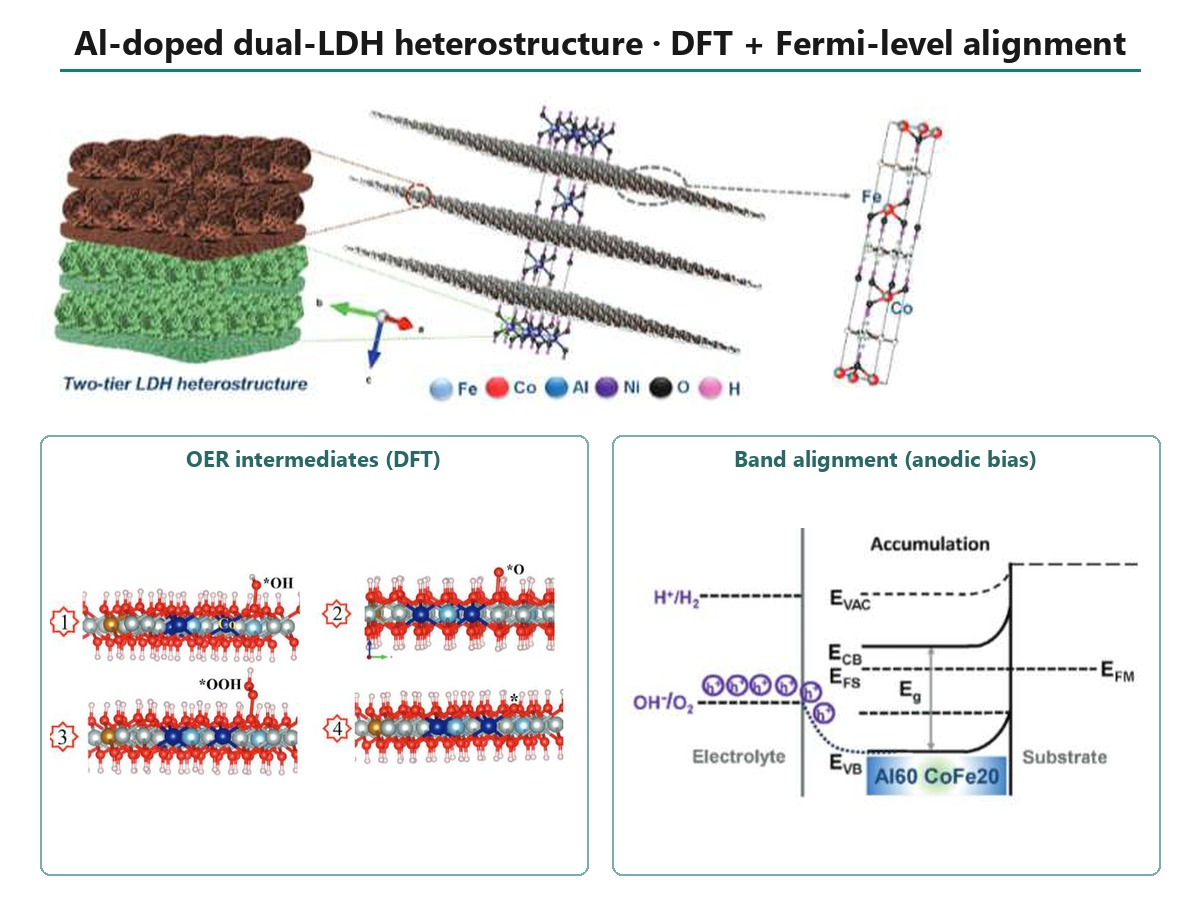
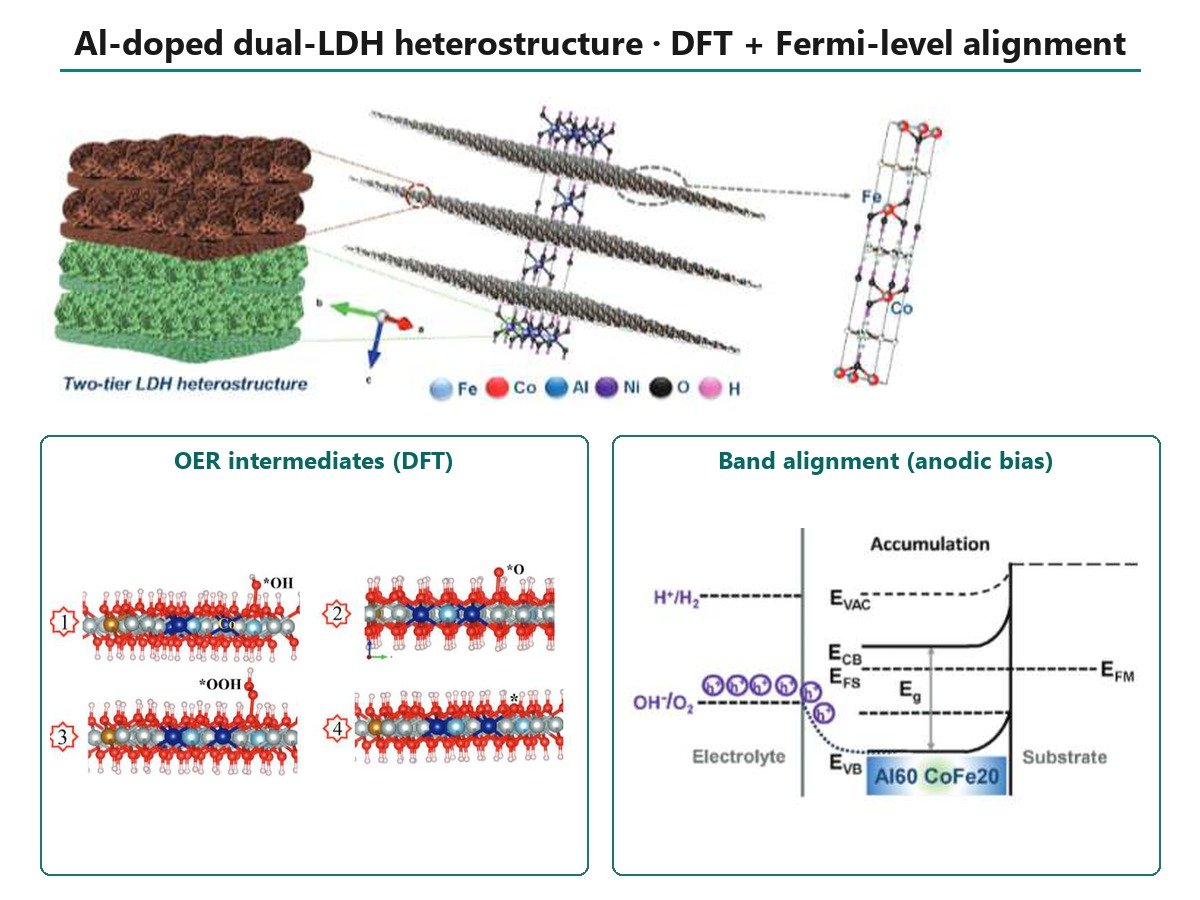
Rework thumbnails 33, 47, 49, 52; unify composite panel colors
Claude-Session: https://claude.ai/code/session_01C8otz9xRUX7zpZLP7SNUXe

Changed region(s): [[0.5858, 0.4978, 0.8942, 0.5289], [0.1233, 0.4978, 0.37, 0.5289]]

diff --git a/index.html b/index.html
@@ -407,6 +407,6 @@
 <script id="imgdata" type="application/json">{"logo": "assets/img/logo.png", "concept": "assets/img/concept.jpg", "scope": "assets/img/scope.jpg?v=20261005", "pillars": "assets/img/pillars.jpg", "qr": "assets/img/qr.jpg", "pi": "assets/img/pi.jpg?v=20261010", "m_bincy": "assets/img/m_bincy.jpg", "m_ganji": "assets/img/m_ganji.jpg", "m_prabha": "assets/img/m_prabha.jpg", "m_ksw": "assets/img/m_ksw.jpg", "m_kjb": "assets/img/m_kjb.jpg", "m_khn": "assets/img/m_khn.jpg", "m_cde": "assets/img/m_cde.jpg", "m_smt": "assets/img/m_smt.jpg", "m_shj": "assets/img/m_shj.jpg", "m_ldg": "assets/img/m_ldg.jpg", "m_lsh": "assets/img/m_lsh.jpg", "m_jsw": "assets/img/m_jsw.jpg", "sw_ansys": "assets/img/sw_ansys.png", "sw_fluent": "assets/img/sw_fluent.png", "sw_comsol": "assets/img/sw_comsol.png", "sw_digimat": "assets/img/sw_digimat.png", "sw_geodict": "assets/img/sw_geodict.png", "sw_hepigans": "assets/img/sw_hepigans.png", "sw_msstudio": "assets/img/sw_msstudio.png", "sw_piano": "assets/img/sw_piano.png", "sw_vasp": "assets/img/sw_vasp.png", "n_grad": "assets/img/n_grad.jpg", "n_cover": "assets/img/n_cover.jpg", "n_plat": "assets/img/n_plat.jpg?v=20260905", "n_award": "assets/img/n_award.jpg", "n_geo": "assets/img/n_geo.jpg", "n_qd": "assets/img/n_qd.jpg", "n_marine": "assets/img/n_marine.jpg", "n_hydro": "assets/img/pub/20.jpg", "n_amds": "assets/img/n_amds.jpg", "n_etamds": "assets/img/n_etamds.jpg", "n_mico": "assets/img/n_mico.jpg", "n_halide": "assets/img/n_halide.jpg?v=20260905", "n_tribo": "assets/img/pub/13.jpg", "m_kgw": "assets/img/m_kgw.jpg", "m_gf": "assets/img/m_gf.jpg", "m_uk": "assets/img/m_uk.jpg"}</script>
 <script id="galdata" type="application/json">[{"id": "e2609b", "date": "2026.09.30–10.02", "title": "Korean Ceramic Society", "note": "추계학술대회", "cover": "assets/img/gallery/e2609b-cover.jpg", "shots": ["assets/img/gallery/e2609b-01.jpg", "assets/img/gallery/e2609b-02.jpg"]}, {"id": "e2609", "date": "2026.09.08", "title": "Welcome, Daeun!", "note": "최다은 연구원 환영회", "cover": "assets/img/gallery/e2609-cover.jpg", "shots": ["assets/img/gallery/e2609-01.jpg"]}, {"id": "e2606", "date": "2026.06.21–24", "title": "CIMTEC 2026 · 10th Forum on New Materials", "note": "Perugia, Italy", "cover": "assets/img/gallery/e2606-cover.jpg", "shots": ["assets/img/gallery/e2606-01.jpg", "assets/img/gallery/e2606-02.jpg", "assets/img/gallery/e2606-04.jpg", "assets/img/gallery/e2606-03.jpg"]}, {"id": "e2605b", "date": "2026.05.15", "title": "Teachers' Day", "note": "스승의 날", "cover": "assets/img/gallery/e2605b-cover.jpg", "shots": ["assets/img/gallery/e2605b-02.jpg"]}, {"id": "e2605a", "date": "2026.05.08", "title": "Homecoming", "note": "졸업생 방문", "cover": "assets/img/gallery/e2605a-cover.jpg", "shots": ["assets/img/gallery/e2605a-14.jpg"]}, {"id": "e2604", "date": "2026.04.08–10", "title": "Korean Ceramic Society", "note": "춘계학술대회", "cover": "assets/img/gallery/e2604-cover.jpg", "shots": ["assets/img/gallery/e2604-08.jpg", "assets/img/gallery/e2604-01.jpg", "assets/img/gallery/e2604-06.jpg"]}, {"id": "e2601", "date": "2026.01.09", "title": "Birthday", "note": "", "cover": "assets/img/gallery/e2601-cover.jpg", "shots": ["assets/img/gallery/e2601-01.jpg"]}, {"id": "e2511", "date": "2025.11.19–22", "title": "39th Korea–Japan Seminar on Ceramics", "note": "Oriental Hotel, Jeju", "cover": "assets/img/gallery/e2511-cover.jpg", "shots": ["assets/img/gallery/e2511-01.jpg", "assets/img/gallery/e2511-02.jpg", "assets/img/gallery/e2511-04.jpg"]}, {"id": "e2506", "date": "2025.06.02", "title": "Congrats, Donggeon!", "note": "이동건 취업 축하 파티", "cover": "assets/img/gallery/e2506-cover.jpg", "shots": ["assets/img/gallery/e2506-01.jpg"]}, {"id": "e2505", "date": "2025.05.15", "title": "Teachers' Day", "note": "스승의 날", "cover": "assets/img/gallery/e2505-cover.jpg", "shots": ["assets/img/gallery/e2505-03.jpg", "assets/img/gallery/e2505-05.jpg"]}, {"id": "e2503", "date": "2025.03.13", "title": "Group meeting", "note": "", "cover": "assets/img/gallery/e2503-cover.jpg", "shots": ["assets/img/gallery/e2503-01.jpg"]}, {"id": "e2502b", "date": "2025.02.27", "title": "Welcome Dr. Karan", "note": "환영회", "cover": "assets/img/gallery/e2502b-cover.jpg", "shots": ["assets/img/gallery/e2502b-01.jpg", "assets/img/gallery/e2502b-02.jpg"]}, {"id": "e2502a", "date": "2025.02.05–07", "title": "Nature Conference: Materials for AI", "note": "KAIST", "cover": "assets/img/gallery/e2502a-cover.jpg", "shots": ["assets/img/gallery/e2502a-01.jpg"]}, {"id": "e2501", "date": "2025.01.10", "title": "Birthday", "note": "", "cover": "assets/img/gallery/e2501-cover.jpg", "shots": ["assets/img/gallery/e2501-01.jpg"]}, {"id": "e2410", "date": "2024.10.16–18", "title": "Korean Ceramic Society", "note": "추계학술대회", "cover": "assets/img/gallery/e2410-cover.jpg", "shots": ["assets/img/gallery/e2410-04.jpg", "assets/img/gallery/e2410-01.jpg", "assets/img/gallery/e2410-02.jpg"]}, {"id": "e2409", "date": "2024.09.22–27", "title": "Multiscale Materials Modeling (MMM11)", "note": "", "cover": "assets/img/gallery/e2409-cover.jpg", "shots": ["assets/img/gallery/e2409-01.jpg", "assets/img/gallery/e2409-02.jpg", "assets/img/gallery/e2409-09.jpg", "assets/img/gallery/e2409-03.jpg", "assets/img/gallery/e2409-04.jpg", "assets/img/gallery/e2409-05.jpg", "assets/img/gallery/e2409-06.jpg"]}, {"id": "e2403", "date": "2024.03.15–16", "title": "Membership Training", "note": "Geoje", "cover": "assets/img/gallery/e2403-cover.jpg", "shots": ["assets/img/gallery/emt-01.jpg"]}, {"id": "e2305", "date": "2023.05.19–20", "title": "Membership Training", "note": "Changwon", "cover": "assets/img/gallery/e2305-cover.jpg", "shots": ["assets/img/gallery/emt-06.jpg", "assets/img/gallery/emt-02.jpg"]}]</script>
 <script id="pubdata" type="application/json">[{"id": 62, "date": "2026-10-01", "year": 2026, "title": "Flavonoid-coordinated NiCo bimetallic complex for interfacial electronic reconstruction and d-band engineering in BiVO4 toward sustainable solar water oxidation", "venue": "Journal of Energy Chemistry", "jif": 15.6, "q": "Q1", "cites": 0, "role": "co-author", "pos": [8, 10], "doi": "https://doi.org/10.1016/j.jechem.2026.06.082", "authors": [{"n": "Pratik Mane", "lab": false, "m": ""}, {"n": "Sampath Prabhakaran", "lab": true, "m": ""}, {"n": "Vishal Burungale", "lab": false, "m": ""}, {"n": "Hyojung Bae", "lab": false, "m": ""}, {"n": "Jiwon Heo", "lab": false, "m": ""}, {"n": "Chaewon Seong", "lab": false, "m": ""}, {"n": "Dhanashri Burungale", "lab": false, "m": ""}, {"n": "Hyunseok Ko", "lab": true, "m": ""}, {"n": "Sang Hyun Lee", "lab": false, "m": ""}, {"n": "Jun-Seok Ha", "lab": false, "m": ""}], "fig": 1}, {"id": 61, "date": "2026-08-25", "year": 2026, "title": "Effect of fumed silica content on the microstructural evolution and mechanical properties of metakaolin-based basalt fiber-reinforced geopolymer matrix composites", "venue": "Advanced Composite Materials", "jif": null, "q": null, "cites": 0, "role": "co-corresponding", "pos": [5, 5], "doi": "https://doi.org/10.1080/09243046.2026.2721819", "authors": [{"n": "Sanghun Lee", "lab": true, "m": "†"}, {"n": "Shinwoo Kang", "lab": true, "m": "†"}, {"n": "Hyung Mi Lim", "lab": false, "m": ""}, {"n": "Seog-Young Yoon", "lab": false, "m": "*"}, {"n": "Hyunseok Ko", "lab": true, "m": "*"}], "fig": 1}, {"id": 60, "date": "2026-11-01", "year": 2026, "title": "Composition and Processing Descriptors Govern Electroceramic Property Prediction: A Multi-Modal Interpretable Framework for BaTiO3-Based Ceramics", "venue": "Journal of Materiomics", "jif": 10.6, "q": "Q1", "cites": 0, "role": "co-corresponding", "pos": [6, 7], "doi": "https://doi.org/10.1016/j.jmat.2026.101282", "authors": [{"n": "Saman khalid", "lab": false, "m": "†"}, {"n": "Muhammad Faseeh", "lab": false, "m": "†"}, {"n": "Murad Ali Khan", "lab": false, "m": ""}, {"n": "Hyejeong Song", "lab": true, "m": ""}, {"n": "Syed Shehryar Ali Naqvi", "lab": false, "m": ""}, {"n": "Hyunseok Ko", "lab": true, "m": "*"}, {"n": "Do-Hyeun Kim", "lab": false, "m": "*"}], "fig": 1}, {"id": 59, "date": "2026-08-01", "year": 2026, "title": "Multi-model machine learning framework for predicting material properties of BaTiO3-based ferroelectric ceramics", "venue": "Materials & Design", "jif": 8.2, "q": "Q1", "cites": 0, "role": "co-corresponding", "pos": [6, 7], "doi": "https://doi.org/10.1016/j.matdes.2026.116418", "authors": [{"n": "Saman Khalid", "lab": false, "m": "†"}, {"n": "Muhammad Faseeh", "lab": false, "m": ""}, {"n": "Hyejeong Song", "lab": true, "m": ""}, {"n": "Murad Ali Khan", "lab": false, "m": ""}, {"n": "Syed Shehryar Ali Naqvi", "lab": false, "m": ""}, {"n": "Hyunseok Ko", "lab": true, "m": "*"}, {"n": "Do-Hyeon Kim", "lab": false, "m": "*"}], "fig": 1}, {"id": 58, "date": "2026-08-01", "year": 2026, "title": "Reinforced surface reactivity via incorporation of metal catalyst onto perovskite oxide for CO2 reduction", "venue": "Materials Today Energy", "jif": 8.1, "q": "Q1", "cites": 0, "role": "co-corresponding", "pos": [9, 10], "doi": "https://doi.org/10.1016/j.mtener.2026.102327", "authors": [{"n": "Sang Won Lee", "lab": false, "m": "†"}, {"n": "Sampath Prabhakaran", "lab": true, "m": "†"}, {"n": "Tae Heon Nam", "lab": false, "m": ""}, {"n": "Geunwoo Kim", "lab": true, "m": ""}, {"n": "Jae Hoon Lim", "lab": false, "m": ""}, {"n": "Hyejeong Song", "lab": true, "m": ""}, {"n": "Sungtae Park", "lab": false, "m": ""}, {"n": "Jong Hyeok Park", "lab": false, "m": "*"}, {"n": "Hyunseok Ko", "lab": true, "m": "*"}, {"n": "Tae Ho Shin", "lab": false, "m": "*"}], "fig": 1}, {"id": 57, "date": "2026-12-01", "year": 2026, "title": "High Polarity Doping of CoFe Layered Hydroxides: Bifunctional and Corrosion-Resistant Anion Exchange Membrane Seawater Electrolyzers", "venue": "Nano-Micro Letters", "jif": 38.5, "q": "Q1", "cites": 2, "role": "co-author", "pos": [6, 11], "doi": "https://doi.org/10.1007/s40820-026-02230-8", "authors": [{"n": "Anandhan Ayyappan Saj", "lab": false, "m": "†"}, {"n": "Sampath Prabhakaran", "lab": true, "m": "†"}, {"n": "Moshin Rasool", "lab": false, "m": ""}, {"n": "Kousik Bhunia", "lab": false, "m": ""}, {"n": "Dongho Lee", "lab": false, "m": ""}, {"n": "Hyunseok Ko", "lab": true, "m": ""}, {"n": "Tukaram D. Dongale", "lab": false, "m": ""}, {"n": "Muthukumar Perumalsamy", "lab": false, "m": ""}, {"n": "Arul Saravanan Raaju Sundhar", "lab": false, "m": ""}, {"n": "Do Hwan Kim", "lab": false, "m": "*"}, {"n": "Sang Jae Kim", "lab": false, "m": "*"}], "fig": 1}, {"id": 56, "date": "2026-08-01", "year": 2026, "title": "Low temperature/low-pressure fabrication of oxide/oxide ceramic matrix composites with excellent mechanical properties and stealth capabilities", "venue": "Advanced Composites and Hybrid Materials", "jif": 15.5, "q": "Q1", "cites": 0, "role": "co-author", "pos": [3, 7], "doi": "https://doi.org/10.1007/s42114-026-01816-5", "authors": [{"n": "Shanigaram Mallesh", "lab": false, "m": "†"}, {"n": "Dong-Jun Hong", "lab": false, "m": ""}, {"n": "Hyunseok Ko", "lab": true, "m": ""}, {"n": "Sanghun Lee", "lab": true, "m": ""}, {"n": "Chae-Hwan Lim", "lab": false, "m": ""}, {"n": "Won-Ho Choi", "lab": false, "m": ""}, {"n": "Young-Woo Nam", "lab": false, "m": "*"}], "fig": 1}, {"id": 55, "date": "2026-06-17", "year": 2026, "title": "Mechanistic insights into vacancy-driven activation and dissociation of hydrogen peroxide on Ti3C2O2 MXene in water", "venue": "Nanoscale Advances", "jif": 6.3, "q": "Q2", "cites": 0, "role": "corresponding", "pos": [2, 2], "doi": "https://doi.org/10.1039/d5na00962f", "authors": [{"n": "Masoud Darvish Ganji", "lab": true, "m": "†"}, {"n": "Hyunseok Ko", "lab": true, "m": "*"}], "fig": 1, "sel": 1}, {"id": 54, "date": "2026-06-01", "year": 2026, "title": "Bridging the theoretical gap between electronic structure and dynamic stability: An integrated computational framework for ZnO sheet-based chemical warfare agent sensors", "venue": "Surfaces and Interfaces", "jif": 6.0, "q": "Q2", "cites": 5, "role": "co-corresponding", "pos": [3, 3], "doi": "https://doi.org/10.1016/j.surfin.2026.109196", "authors": [{"n": "Masoud Darvish Ganji", "lab": true, "m": "†"}, {"n": "Mahyar Rezvani", "lab": false, "m": ""}, {"n": "Hyunseok Ko", "lab": true, "m": "*"}], "fig": 1}, {"id": 53, "date": "2026-07-01", "year": 2026, "title": "Numerical analysis and optimization of horizontal MOCVD reactor design parameters for uniform GaN thin films", "venue": "Journal of the Korean Ceramic Society", "jif": 4.4, "q": "Q1", "cites": 0, "role": "co-corresponding", "pos": [3, 3], "doi": "https://doi.org/10.1007/s43207-026-00602-9", "authors": [{"n": "Haneul Kim", "lab": true, "m": "†"}, {"n": "Roy Byung Kyu Chung", "lab": false, "m": ""}, {"n": "Hyunseok Ko", "lab": true, "m": "*"}], "fig": 1}, {"id": 52, "date": "2026-03-01", "year": 2026, "title": "Processing-structure-property prediction in polycrystalline BaTiO3 ceramics using experimental and computational data fusion", "venue": "Materials Today Communications", "jif": 4.9, "q": "Q2", "cites": 1, "role": "co-corresponding", "pos": [6, 7], "doi": "https://doi.org/10.1016/j.mtcomm.2026.115004", "authors": [{"n": "Muhammad Faseeh", "lab": false, "m": "†"}, {"n": "Hyejeong Song", "lab": true, "m": ""}, {"n": "Murad Ali Khan", "lab": false, "m": ""}, {"n": "Syed Shehryar Ali Naqvi", "lab": false, "m": ""}, {"n": "Saman Khalid", "lab": false, "m": ""}, {"n": "Hyunseok Ko", "lab": true, "m": "*"}, {"n": "Do-Hyeun Kim", "lab": false, "m": "*"}], "fig": 1}, {"id": 51, "date": "2026-03-01", "year": 2026, "title": "Hierarchically structured Cu-Fe-S nanomaterials as dual-functional catalysts for enhanced hydrogen evolution and photocatalytic dye degradation", "venue": "Journal of Alloys and Compounds", "jif": 6.7, "q": "Q2", "cites": 0, "role": "co-corresponding", "pos": [7, 8], "doi": "https://doi.org/10.1016/j.jallcom.2026.187031", "authors": [{"n": "C.K. Sushma", "lab": false, "m": "†"}, {"n": "Hyeon Woo Kim", "lab": false, "m": ""}, {"n": "Maheshkumar V", "lab": false, "m": ""}, {"n": "Anju Sebastian", "lab": false, "m": ""}, {"n": "Masoud Darvish Ganji", "lab": true, "m": ""}, {"n": "Sung Beom Cho", "lab": false, "m": ""}, {"n": "Hyunseok Ko", "lab": true, "m": "*"}, {"n": "Vidhya Bhojan", "lab": false, "m": "*"}], "fig": 1}, {"id": 50, "date": "2026-02-01", "year": 2026, "title": "First-Principles Models of Triboelectrification", "venue": "Small Methods", "jif": 8.7, "q": "Q1", "cites": 0, "role": "co-author", "pos": [3, 6], "doi": "https://doi.org/10.1002/smtd.202501782", "authors": [{"n": "Giulio Fatti", "lab": true, "m": "†"}, {"n": "John Cavin", "lab": false, "m": ""}, {"n": "Hyunseok Ko", "lab": true, "m": ""}, {"n": "Rohan Mishra", "lab": false, "m": ""}, {"n": "Daniele Dini", "lab": false, "m": ""}, {"n": "Sung Beom Cho", "lab": false, "m": ""}], "fig": 1}, {"id": 49, "date": "2026-01-02", "year": 2026, "title": "Toward efficient dielectric material discovery: a comparative evaluation of Transformer and AutoML-based inverse learning", "venue": "Journal of Asian Ceramic Societies", "jif": 1.8, "q": "Q3", "cites": 1, "role": "co-corresponding", "pos": [5, 6], "doi": "https://doi.org/10.1080/21870764.2025.2570561", "authors": [{"n": "Murad Ali Khan", "lab": false, "m": "†"}, {"n": "Hyejeong Song", "lab": true, "m": ""}, {"n": "Syed Shehryar Ali Naqvi", "lab": false, "m": ""}, {"n": "Muhammad Faseeh", "lab": false, "m": ""}, {"n": "Hyunseok Ko", "lab": true, "m": "*"}, {"n": "Do-Hyeun Kim", "lab": false, "m": "*"}], "fig": 1}, {"id": 48, "date": "2025-11-01", "year": 2025, "title": "Boosting the efficiency and stability of cerium-doped trimetallic phosphides for overall water splitting", "venue": "Chemical Engineering Journal", "jif": 12.5, "q": "Q1", "cites": 5, "role": "co-author", "pos": [5, 8], "doi": "https://doi.org/10.1016/j.cej.2025.169404", "authors": [{"n": "Mai Mai", "lab": false, "m": "†"}, {"n": "Sampath Prabhakaran", "lab": true, "m": ""}, {"n": "Huyen Thi Dao", "lab": false, "m": ""}, {"n": "Lan Nguyen", "lab": false, "m": ""}, {"n": "Hyunseok Ko", "lab": true, "m": ""}, {"n": "Young Sun Mok", "lab": false, "m": ""}, {"n": "Van Hien Hoa", "lab": false, "m": "*"}, {"n": "Do Hwan Kim", "lab": false, "m": "*"}], "fig": 1}, {"id": 47, "date": "2025-10-28", "year": 2025, "title": "Engineering multifunctionality in gallium oxide: unveiling novel structural, electronic, and opto-mechanical attributes of gadolinium-doped β-Ga2O3 through advanced first-principles design", "venue": "RSC Advances", "jif": 6.1, "q": "Q2", "cites": 4, "role": "corresponding", "pos": [2, 2], "doi": "https://doi.org/10.1039/d5ra05763a", "authors": [{"n": "Masoud Darvish Ganji", "lab": true, "m": "†"}, {"n": "Hyunseok Ko", "lab": true, "m": "*"}], "fig": 1}, {"id": 46, "date": "2025-09-01", "year": 2025, "title": "Rational material design of chemically inert oxide anode coating layers for lithium metal and all-solid-state batteries", "venue": "Applied Surface Science Advances", "jif": 10.0, "q": "Q1", "cites": 0, "role": "co-author", "pos": [6, 10], "doi": "https://doi.org/10.1016/j.apsadv.2025.100842", "authors": [{"n": "Dong Won Jeon", "lab": false, "m": "†"}, {"n": "Wootaek Choi", "lab": false, "m": ""}, {"n": "Jun Hyuk Kang", "lab": false, "m": ""}, {"n": "Hyeon Woo Kim", "lab": false, "m": ""}, {"n": "Min Sung Kang", "lab": false, "m": ""}, {"n": "Woongchan Kim", "lab": false, "m": ""}, {"n": "Han Uk Lee", "lab": false, "m": ""}, {"n": "Hyunseok Ko", "lab": true, "m": ""}, {"n": "Patrick Joohyun Kim", "lab": false, "m": "*"}, {"n": "Sung Beom Cho", "lab": false, "m": "*"}], "fig": 1}, {"id": 45, "date": "2025-06-30", "year": 2025, "title": "초저궤도 우주환경에서 자기 강화 원자산소 저항 산화층이 형성된 산화물/산화물 세라믹 복합재 구조의 손상 거동 평가", "venue": "복합재료 (Composites Research), 한국복합재료학회", "jif": null, "q": null, "cites": 0, "role": "co-author", "pos": [6, 8], "doi": "https://doi.org/10.7234/composres.2025.38.3.333", "authors": [{"n": "Chae-Hwan Lim", "lab": false, "m": "†"}, {"n": "Dong-Jun Hong", "lab": false, "m": ""}, {"n": "Hanna Jang", "lab": false, "m": ""}, {"n": "Seung-Hyeon Kang", "lab": false, "m": ""}, {"n": "Sang-Hoon Lee", "lab": true, "m": ""}, {"n": "Hyunseok Ko", "lab": true, "m": ""}, {"n": "Won-Ho Choi", "lab": false, "m": ""}, {"n": "Young-Woo Nam", "lab": false, "m": ""}], "fig": 1}, {"id": 44, "date": "2025-09-01", "year": 2025, "title": "First-principles investigation of Mo-doped β-Ga2O3: Prospects for visible light technologies and spintronics", "venue": "Physica B: Condensed Matter", "jif": 3.2, "q": "Q2", "cites": 8, "role": "corresponding", "pos": [5, 5], "doi": "https://doi.org/10.1016/j.physb.2025.417334", "authors": [{"n": "Masoud Darvish Ganji", "lab": true, "m": "†"}, {"n": "Hyejeong Song", "lab": true, "m": ""}, {"n": "Ji-Hyeon Park", "lab": false, "m": ""}, {"n": "Dae-Woo Jeon", "lab": false, "m": ""}, {"n": "Hyunseok Ko", "lab": true, "m": "*"}], "fig": 1}, {"id": 43, "date": "2025-03-12", "year": 2025, "title": "Accentuating the ambient curing behavior of geopolymers: metamodel-guided optimization for fast-curing geopolymers with high flexural strength", "venue": "Digital Discovery", "jif": 7.1, "q": "Q1", "cites": 4, "role": "corresponding", "pos": [5, 6], "doi": "https://doi.org/10.1039/d4dd00217b", "authors": [{"n": "Kyungwon Kim", "lab": true, "m": "†"}, {"n": "Hyejeong Song", "lab": true, "m": "†"}, {"n": "Sanghun Lee", "lab": true, "m": ""}, {"n": "Hyung-Kyu Cho", "lab": false, "m": ""}, {"n": "Hyung-Mi Lim", "lab": false, "m": ""}, {"n": "Hyunseok Ko", "lab": true, "m": "*"}], "fig": 1}, {"id": 42, "date": "2025-01-14", "year": 2025, "title": "First-Principle Insights into Positive Triboelectrification of Polyoxymethylene Through Homolytic Bond Rupture", "venue": "Nanoenergy Advances", "jif": 4.2, "q": "Q3", "cites": 2, "role": "co-author", "pos": [2, 3], "doi": "https://doi.org/10.3390/nanoenergyadv5010001", "authors": [{"n": "Giulio Fatti", "lab": true, "m": "†*"}, {"n": "Hyunseok Ko", "lab": true, "m": ""}, {"n": "Sung Beom Cho", "lab": false, "m": ""}], "fig": 1}, {"id": 41, "date": "2025-02-01", "year": 2025, "title": "Ultrahigh-gain colloidal quantum dot infrared avalanche photodetectors", "venue": "Nature Nanotechnology", "jif": 37.5, "q": "Q1", "cites": 47, "role": "first", "pos": [3, 9], "doi": "https://doi.org/10.1038/s41565-024-01831-x", "authors": [{"n": "Byeongsu Kim", "lab": false, "m": "†"}, {"n": "Sang Yeon Lee", "lab": false, "m": "†"}, {"n": "Hyunseok Ko", "lab": true, "m": "†"}, {"n": "Jihyung Lee", "lab": false, "m": ""}, {"n": "Hyejeong Song", "lab": true, "m": ""}, {"n": "Sungjun Cho", "lab": false, "m": ""}, {"n": "Min-Ho Lee", "lab": false, "m": ""}, {"n": "Jung-Yong Lee", "lab": false, "m": ""}], "fig": 1, "sel": 1}, {"id": 40, "date": "2025-04-01", "year": 2025, "title": "Unveiling the Aluminum Doping Effects of In-Situ Transmogrified Dual-LDH Heterostructure and Its Fermi-Level Alignment to Water Splitting Potentials", "venue": "Advanced Energy Materials", "jif": 25.5, "q": "Q1", "cites": 39, "role": "co-author", "pos": [10, 11], "doi": "https://doi.org/10.1002/aenm.202403889", "authors": [{"n": "Nandapriya Manivelan", "lab": false, "m": "†"}, {"n": "Junji Piao", "lab": false, "m": ""}, {"n": "Jaekook Kim", "lab": false, "m": ""}, {"n": "Seunghwa Lee", "lab": false, "m": ""}, {"n": "Youngji Kim", "lab": false, "m": ""}, {"n": "Vaiyapuri Soundharrajan", "lab": false, "m": ""}, {"n": "Min-Kyu Son", "lab": false, "m": ""}, {"n": "Amir Humayun", "lab": false, "m": ""}, {"n": "Masoud Darvish Ganji", "lab": true, "m": ""}, {"n": "Hyunseok Ko", "lab": true, "m": ""}, {"n": "Kandasamy Prabakar", "lab": false, "m": ""}], "fig": 1}, {"id": 39, "date": "2025-01-01", "year": 2025, "title": "Machine learning-enhanced design of lead-free halide perovskite materials using density functional theory", "venue": "Current Applied Physics", "jif": 2.8, "q": "Q3", "cites": 7, "role": "co-corresponding", "pos": null, "doi": "https://doi.org/10.1016/j.cap.2024.10.012", "authors": [{"n": "Upendra Kumar", "lab": true, "m": "†"}, {"n": "Hyeon Woo Kim", "lab": false, "m": "†"}, {"n": "Gyanendra Kumar Maurya", "lab": false, "m": ""}, {"n": "Bincy Babu Raj", "lab": true, "m": ""}, {"n": "Sobhit Singh", "lab": false, "m": ""}, {"n": "Ajay Kumar Kushwaha", "lab": false, "m": ""}, {"n": "Sung Beom Cho", "lab": false, "m": "*"}, {"n": "Hyunseok Ko", "lab": true, "m": "*"}], "fig": 1}, {"id": 38, "date": "2024-11-01", "year": 2024, "title": "Suppressing Hole Accumulation Through Sub-Nanometer Dipole Interfaces in Hybrid Perovskite/Organic Solar Cells for Boosting Near-Infrared Photon Harvesting", "venue": "Advanced Materials", "jif": 29.1, "q": "Q1", "cites": 22, "role": "co-author", "pos": [9, 13], "doi": "https://doi.org/10.1002/adma.202411015", "authors": [{"n": "Min-Ho Lee", "lab": false, "m": "†"}, {"n": "Min Seok Kim", "lab": false, "m": ""}, {"n": "Yu Jin Lee", "lab": false, "m": ""}, {"n": "Byeongsu Kim", "lab": false, "m": ""}, {"n": "Ju-Hyeon Kim", "lab": false, "m": ""}, {"n": "Chungryeol Lee", "lab": false, "m": ""}, {"n": "Jihyung Lee", "lab": false, "m": ""}, {"n": "Dong-Jun Kim", "lab": false, "m": ""}, {"n": "Hyunseok Ko", "lab": true, "m": ""}, {"n": "Masoud Darvish Ganji", "lab": true, "m": ""}, {"n": "Kwanghee Lee", "lab": false, "m": ""}, {"n": "Woojae Kim", "lab": false, "m": ""}, {"n": "Jung-Yong Lee", "lab": false, "m": ""}], "fig": 1}, {"id": 37, "date": "2024-12-10", "year": 2024, "title": "Overcoming the limitations of atomic-scale simulations on semiconductor catalysis with changing Fermi level and surface treatment", "venue": "Journal of Materials Chemistry A", "jif": 9.2, "q": "Q1", "cites": 4, "role": "co-corresponding", "pos": [12, 14], "doi": "https://doi.org/10.1039/d4ta03595j", "authors": [{"n": "Seulgi ji", "lab": false, "m": "†"}, {"n": "Dong Won Jeon", "lab": false, "m": ""}, {"n": "Junghyun Choi", "lab": false, "m": ""}, {"n": "Haneol Cho", "lab": false, "m": ""}, {"n": "Bo-In Park", "lab": false, "m": ""}, {"n": "Ilpyo Roh", "lab": false, "m": ""}, {"n": "Hyungil Choi", "lab": false, "m": ""}, {"n": "Chansoo Kim", "lab": false, "m": ""}, {"n": "Jung Kyu Kim", "lab": false, "m": ""}, {"n": "Uk sim", "lab": false, "m": ""}, {"n": "Danlei Li", "lab": false, "m": ""}, {"n": "Hyunseok Ko", "lab": true, "m": "*"}, {"n": "Sung Beom Cho", "lab": false, "m": "*"}, {"n": "Heechae Choi", "lab": false, "m": "*"}], "fig": 1, "sel": 1}, {"id": 36, "date": "2024-11-01", "year": 2024, "title": "Multifaceted investigation into the impact of Ga substitution for Al in V2MnAl inverse Heusler alloys", "venue": "Physica B: Condensed Matter", "jif": 3.2, "q": "Q2", "cites": 3, "role": "co-corresponding", "pos": [4, 5], "doi": "https://doi.org/10.1016/j.physb.2024.416345", "authors": [{"n": "Shashank Shekhar Mishra", "lab": false, "m": "†"}, {"n": "Upendra Kumar", "lab": true, "m": "†"}, {"n": "Bincy Babu Raj", "lab": true, "m": ""}, {"n": "Hyunseok Ko", "lab": true, "m": "*"}, {"n": "Thakur Prasad Yadav", "lab": false, "m": "*"}], "fig": 1}, {"id": 35, "date": "2024-05-08", "year": 2024, "title": "Unravelling performance of honeycomb structures as drug delivery systems for the isoniazid drug using DFT-D3 correction dispersion and molecular dynamic simulations", "venue": "Physical Chemistry Chemical Physics", "jif": 3.0, "q": "Q3", "cites": 50, "role": "co-author", "pos": [2, 8], "doi": "https://doi.org/10.1039/d3cp05457h", "authors": [{"n": "Masoud Darvish Ganji", "lab": true, "m": "†"}, {"n": "Hyunseok Ko", "lab": true, "m": ""}, {"n": "Saeed Jamehbozorgi", "lab": false, "m": ""}, {"n": "Mahmood Tajbakhsh", "lab": false, "m": ""}, {"n": "Sepideh Tanreh", "lab": false, "m": ""}, {"n": "Rosa Pahlavan Nejad", "lab": false, "m": ""}, {"n": "Mahboubeh Sepahvand", "lab": false, "m": ""}, {"n": "Mahyar Rezvani", "lab": false, "m": "*"}], "fig": 1}, {"id": 34, "date": "2024-05-01", "year": 2024, "title": "Morphological diversity in directionally-solidified microstructures with varying anisotropy of solid-liquid interfacial free energy", "venue": "Journal of Materials Research and Technology", "jif": 7.3, "q": "Q1", "cites": 6, "role": "co-corresponding", "pos": [4, 5], "doi": "https://doi.org/10.1016/j.jmrt.2024.04.126", "authors": [{"n": "Geunwoo Kim", "lab": true, "m": "†"}, {"n": "Tomohiro Takaki", "lab": false, "m": ""}, {"n": "Yasushi Shibuta", "lab": false, "m": ""}, {"n": "Hyunseok Ko", "lab": true, "m": "*"}, {"n": "Munekazu Ohno", "lab": false, "m": "*"}], "fig": 1}, {"id": 33, "date": "2024-01-01", "year": 2024, "title": "Designing Pr-based advanced photoluminescent materials using machine learning and density functional theory", "venue": "Journal of Materials Science", "jif": 4.4, "q": "Q2", "cites": 5, "role": "corresponding", "pos": [5, 5], "doi": "https://doi.org/10.1007/s10853-023-09232-6", "authors": [{"n": "Upendra Kumar", "lab": true, "m": "†"}, {"n": "Hyeon Woo Kim", "lab": false, "m": ""}, {"n": "Sobhit Singh", "lab": false, "m": ""}, {"n": "Sung Beom Cho", "lab": false, "m": "*"}, {"n": "Hyunseok Ko", "lab": true, "m": "*"}], "fig": 1}, {"id": 32, "date": "2024-04-01", "year": 2024, "title": "Sequential doping strategy in rutile TiO2 nanorod for high performance photoanode", "venue": "Applied Surface Science", "jif": 6.6, "q": "Q1", "cites": 6, "role": "co-corresponding", "pos": [10, 11], "doi": "https://doi.org/10.1016/j.apsusc.2023.159213", "authors": [{"n": "Sang Yeon Lee", "lab": false, "m": "†"}, {"n": "Young Jae Lee", "lab": false, "m": ""}, {"n": "Il-han Yoo", "lab": false, "m": ""}, {"n": "Hyeon Woo Kim", "lab": false, "m": ""}, {"n": "Hyejeong Song", "lab": true, "m": ""}, {"n": "Soo Won Heo", "lab": false, "m": ""}, {"n": "Shankara S Kalanur", "lab": false, "m": ""}, {"n": "Gourab Mohapatra", "lab": false, "m": ""}, {"n": "Hyunseok Ko", "lab": true, "m": "*"}, {"n": "Hyungtak Seo", "lab": false, "m": "*"}], "fig": 1}, {"id": 31, "date": "2023-12-01", "year": 2023, "title": "Radar absorption characteristics of ceramic oxide fiber/aluminosilicate-sendust composite structure at ultrahigh temperatures", "venue": "Journal of Alloys and Compounds", "jif": 6.7, "q": "Q1", "cites": 24, "role": "co-author", "pos": [3, 7], "doi": "https://doi.org/10.1016/j.jallcom.2023.171979", "authors": [{"n": "Shanigaram Mallesh", "lab": false, "m": "†"}, {"n": "Dongyoung Shim", "lab": false, "m": "†"}, {"n": "Hyunseok Ko", "lab": true, "m": ""}, {"n": "Younghoon Kang", "lab": false, "m": ""}, {"n": "Dongjun Hong", "lab": false, "m": ""}, {"n": "Byeongsu Kwak", "lab": false, "m": ""}, {"n": "Youngwoo Nam", "lab": false, "m": ""}], "fig": 1}, {"id": 30, "date": "2023-11-24", "year": 2023, "title": "Explainable AI for Material Property Prediction Based on Energy Cloud: A Shapley-Driven Approach", "venue": "Materials", "jif": 3.7, "q": "Q2", "cites": 28, "role": "co-author", "pos": [4, 5], "doi": "https://doi.org/10.3390/ma16237322", "authors": [{"n": "Faiza Qayyum", "lab": false, "m": "†"}, {"n": "Murad Ali Khan", "lab": false, "m": ""}, {"n": "Do-Hyeun Kim", "lab": false, "m": "*"}, {"n": "Hyunseok Ko", "lab": true, "m": ""}, {"n": "Ga-Ae Ryu", "lab": false, "m": "*"}], "fig": 1}, {"id": 29, "date": "2023-10-01", "year": 2023, "title": "Uncertainty and Irreproducibility of Triboelectricity Based on Interface Mechanochemistry", "venue": "Physical Review Letters", "jif": 9.4, "q": "Q1", "cites": 21, "role": "co-author", "pos": [9, 11], "doi": "https://doi.org/10.1103/physrevlett.131.166201", "authors": [{"n": "Giulio Fatti", "lab": true, "m": "†"}, {"n": "Hyunseung Kim", "lab": false, "m": ""}, {"n": "Changwan Sohn", "lab": false, "m": ""}, {"n": "Minah Park", "lab": false, "m": ""}, {"n": "Yeong-won Lim", "lab": false, "m": ""}, {"n": "Zhuohan Li", "lab": false, "m": ""}, {"n": "Kwi-Il Park", "lab": false, "m": ""}, {"n": "Izabela Szlufarska", "lab": false, "m": ""}, {"n": "Hyunseok Ko", "lab": true, "m": ""}, {"n": "Chang Kyu Jeong", "lab": false, "m": ""}, {"n": "Sung Beom Cho", "lab": false, "m": ""}], "fig": 1}, {"id": 28, "date": "2023-10-01", "year": 2023, "title": "A versatile strategy for hybridizing small experimental and large simulation data: A case for ceramic tape-casting process", "venue": "Materials & Design", "jif": 8.2, "q": "Q1", "cites": 6, "role": "first", "pos": [2, 8], "doi": "https://doi.org/10.1016/j.matdes.2023.112357", "authors": [{"n": "Jeong-Hun Kim", "lab": false, "m": "†"}, {"n": "Hyunseok Ko", "lab": true, "m": "†"}, {"n": "Dong-Hun Yeo", "lab": false, "m": ""}, {"n": "Zeehoon Park", "lab": false, "m": ""}, {"n": "Upendra Kumar", "lab": true, "m": ""}, {"n": "Kwan-Hee Yoo", "lab": false, "m": ""}, {"n": "Aziz Nasridinov", "lab": false, "m": ""}, {"n": "Sung Beom Cho", "lab": false, "m": ""}], "fig": 1, "sel": 1}, {"id": 27, "date": "2023-11-01", "year": 2023, "title": "Rational Design Strategy for Triboelectric Nanogenerators Based on Electron Back Flow and Ionic Defects: The Case of Polytetrafluoroethylene", "venue": "Advanced Electronic Materials", "jif": 5.9, "q": "Q1", "cites": 15, "role": "co-corresponding", "pos": [3, 11], "doi": "https://doi.org/10.1002/aelm.202300333", "authors": [{"n": "Giulio Fatti", "lab": true, "m": "†*"}, {"n": "Alessandra Ciniero", "lab": false, "m": ""}, {"n": "Hyunseok Ko", "lab": true, "m": "*"}, {"n": "Han Uk Lee", "lab": false, "m": ""}, {"n": "Yujin Na", "lab": false, "m": ""}, {"n": "Chang Kyu Jeong", "lab": false, "m": ""}, {"n": "Sang-geul Lee", "lab": false, "m": ""}, {"n": "Dongyub Kwak", "lab": false, "m": ""}, {"n": "Kwi-Il Park", "lab": false, "m": "*"}, {"n": "Sung Beom Cho", "lab": false, "m": "*"}, {"n": "Daniele Dini", "lab": false, "m": ""}], "fig": 1}, {"id": 26, "date": "2023-09-01", "year": 2023, "title": "Isovalent multi-component doping strategy for stabilizing cubic-Li7La3Zr2O12 with excellent Li mobility", "venue": "Chemical Engineering Journal", "jif": 12.5, "q": "Q1", "cites": 21, "role": "co-author", "pos": [4, 9], "doi": "https://doi.org/10.1016/j.cej.2023.144552", "authors": [{"n": "Han Uk Lee", "lab": false, "m": "†"}, {"n": "SeungminHan", "lab": false, "m": ""}, {"n": "Dong Geon Lee", "lab": true, "m": ""}, {"n": "Hyunseok Ko", "lab": true, "m": ""}, {"n": "Juhyun Lee", "lab": false, "m": ""}, {"n": "Won Bin Im", "lab": false, "m": ""}, {"n": "Taeseup Song", "lab": false, "m": ""}, {"n": "Junghyun Choi", "lab": false, "m": "*"}, {"n": "Sung Beom Cho", "lab": false, "m": "*"}], "fig": 1}, {"id": 25, "date": "2023-08-31", "year": 2023, "title": "Understanding the Electrokinetic Role of Ions on Electricity Generation in Droplet-Based Hydrovoltaic Systems", "venue": "Journal of Physical Chemistry C", "jif": 3.4, "q": "Q3", "cites": 15, "role": "co-author", "pos": [2, 4], "doi": "https://doi.org/10.1021/acs.jpcc.3c03183", "authors": [{"n": "Min Sung Kang", "lab": false, "m": "†"}, {"n": "Hyunseok Ko", "lab": true, "m": ""}, {"n": "Seokhee Lee", "lab": false, "m": "*"}, {"n": "Sung Beom Cho", "lab": false, "m": "*"}], "fig": 1}, {"id": 24, "date": "2023-08-01", "year": 2023, "title": "Dispersion control via crystal-phase modulation of yttrium-doped ZrO2 nanoparticle sol", "venue": "Colloids and Surfaces A: Physicochemical and Engineering Aspects", "jif": 5.4, "q": "Q2", "cites": 10, "role": "first", "pos": [2, 5], "doi": "https://doi.org/10.1016/j.colsurfa.2023.131476", "authors": [{"n": "Hee-Seon Lee", "lab": false, "m": "†"}, {"n": "Hyunseok Ko", "lab": true, "m": "†"}, {"n": "Kyuyoung Heo", "lab": false, "m": ""}, {"n": "Heesoo Lee", "lab": false, "m": ""}, {"n": "Hyung Mi Lim", "lab": false, "m": ""}], "fig": 1}, {"id": 23, "date": "2023-08-11", "year": 2023, "title": "High-Throughput Screening on Halide Perovskite Derivatives and Rational Design of Cs3LuCl6", "venue": "ACS Energy Letters", "jif": 17.5, "q": "Q1", "cites": 27, "role": "first", "pos": [3, 10], "doi": "https://doi.org/10.1021/acsenergylett.3c01207", "authors": [{"n": "Hyeon Woo Kim", "lab": false, "m": "†"}, {"n": "Joo Hyeong Han", "lab": false, "m": "†"}, {"n": "Hyunseok Ko", "lab": true, "m": "†"}, {"n": "Tuhin Samanta", "lab": false, "m": ""}, {"n": "Dong Geon Lee", "lab": true, "m": ""}, {"n": "Dong Won Jeon", "lab": false, "m": ""}, {"n": "Woongchan Kim", "lab": false, "m": ""}, {"n": "Yong-Chae Chung", "lab": false, "m": ""}, {"n": "Won Bin Im", "lab": false, "m": "*"}, {"n": "Sung Beom Cho", "lab": false, "m": "*"}], "fig": 1}, {"id": 22, "date": "2023-05-01", "year": 2023, "title": "Fabrication of thin and lightweight cobalt-coated quartz fiber/aluminosilicate composites for high-temperature microwave absorption", "venue": "Ceramics International", "jif": 6.0, "q": "Q1", "cites": 27, "role": "co-author", "pos": [3, 7], "doi": "https://doi.org/10.1016/j.ceramint.2022.12.235", "authors": [{"n": "Wonwoo Choi", "lab": false, "m": "†"}, {"n": "Shanigaram Mallesh", "lab": false, "m": "†"}, {"n": "Hyunseok Ko", "lab": true, "m": ""}, {"n": "Minjun Kim", "lab": false, "m": ""}, {"n": "Joonhyung Shin", "lab": false, "m": ""}, {"n": "Kyungwon Kim", "lab": true, "m": ""}, {"n": "Youngwoo Nam", "lab": false, "m": ""}], "fig": 1}, {"id": 21, "date": "2023-04-01", "year": 2023, "title": "Modulation of Molybdenum oxidation state via Catalytic-oxidation", "venue": "Applied Surface Science", "jif": 6.6, "q": "Q1", "cites": 14, "role": "co-author", "pos": [3, 8], "doi": "https://doi.org/10.1016/j.apsusc.2023.156330", "authors": [{"n": "Kangchun Lee", "lab": false, "m": "†"}, {"n": "Seho Sun", "lab": false, "m": ""}, {"n": "Hyunseok Ko", "lab": true, "m": ""}, {"n": "Sung Beom Cho", "lab": false, "m": ""}, {"n": "Ganggyu Lee", "lab": false, "m": ""}, {"n": "Dongsoo Lee", "lab": false, "m": ""}, {"n": "Taeseup Song", "lab": false, "m": ""}, {"n": "Ungyu Paik", "lab": false, "m": ""}], "fig": 1}, {"id": 20, "date": "2023-01-17", "year": 2023, "title": "Why does water in porous carbon generate electricity? Electrokinetic role of protons in a water droplet-induced hydrovoltaic system of hydrophilic porous carbon", "venue": "Journal of Materials Chemistry A", "jif": 9.2, "q": "Q1", "cites": 33, "role": "first", "pos": [1, 8], "doi": "https://doi.org/10.1039/d2ta05281d", "authors": [{"n": "Hyunseok Ko", "lab": true, "m": "†"}, {"n": "Wonkyeong Son", "lab": false, "m": ""}, {"n": "Min Sung Kang", "lab": false, "m": ""}, {"n": "Han Uk Lee", "lab": false, "m": ""}, {"n": "Chan-Yeup Chung", "lab": false, "m": ""}, {"n": "Seungwu Han", "lab": false, "m": ""}, {"n": "Changsoon Choi", "lab": false, "m": ""}, {"n": "Sung Beom Cho", "lab": false, "m": "*"}], "fig": 1, "sel": 1}, {"id": 19, "date": "2022-09-30", "year": 2022, "title": "Establishment of a BaTiO3-based Computational Science Platform to Predict Multi-component Properties", "venue": "JOURNAL OF SENSOR SCIENCE AND TECHNOLOGY", "jif": null, "q": null, "cites": null, "role": "co-corresponding", "pos": [4, 5], "doi": "https://doi.org/10.46670/jsst.2022.31.5.318", "authors": [{"n": "Dong Geon Lee", "lab": true, "m": "†"}, {"n": "Han Uk  Lee", "lab": false, "m": ""}, {"n": "Won Bin Im", "lab": false, "m": ""}, {"n": "Hyunseok Ko", "lab": true, "m": "*"}, {"n": "Sung Beom Cho", "lab": false, "m": "*"}], "fig": 1}, {"id": 18, "date": "2022-06-28", "year": 2022, "title": "Fast-curing geopolymer foams with an enhanced pore homogeneity derived by hydrogen peroxide and sodium dodecyl sulfate surfactant", "venue": "Minerals", "jif": null, "q": null, "cites": 21, "role": "corresponding", "pos": [4, 4], "doi": "https://doi.org/10.3390/min12070821", "authors": [{"n": "Kyungwon Kim", "lab": true, "m": "†"}, {"n": "Hyung Mi Lim", "lab": false, "m": ""}, {"n": "Seog-Young Yoon", "lab": false, "m": ""}, {"n": "Hyunseok Ko", "lab": true, "m": "*"}], "fig": 1}, {"id": 17, "date": "2022-06-28", "year": 2022, "title": "Dominant Effects of Epitaxial Strain on the Phase Control of Heterostructural (In x Ga1-x) 2O3 Alloys", "venue": "ACS Applied Electronic Materials", "jif": null, "q": null, "cites": 4, "role": "co-author", "pos": [4, 5], "doi": "https://doi.org/10.1021/acsaelm.2c00240", "authors": [{"n": "Han Uk Lee", "lab": false, "m": "†"}, {"n": "Hyeon Woo Kim", "lab": false, "m": ""}, {"n": "Giulio Fatti", "lab": true, "m": ""}, {"n": "Hyunseok Ko", "lab": true, "m": ""}, {"n": "Sung Beom Cho", "lab": false, "m": "*"}], "fig": 1}, {"id": 16, "date": "2021-03-01", "year": 2021, "title": "High-temperature viscosity analysis of aluminosilicate melts and the comparison to empirical models", "venue": "Journal of the Korean Ceramic Society", "jif": null, "q": null, "cites": 5, "role": "first", "pos": [1, 4], "doi": "https://doi.org/10.1007/s43207-020-00078-1", "authors": [{"n": "Hyunseok Ko", "lab": true, "m": "†"}, {"n": "Myounguk Kim", "lab": false, "m": ""}, {"n": "Sun-Min Park", "lab": false, "m": ""}, {"n": "Hyung Mi Lim", "lab": false, "m": ""}], "fig": 1}, {"id": 15, "date": "2021-01-01", "year": 2021, "title": "Heterostructural phase diagram of Ga2O3-based solid solution with Al2O3", "venue": "Journal of the European Ceramic Society", "jif": null, "q": null, "cites": 32, "role": "co-author", "pos": [2, 4], "doi": "https://doi.org/10.1016/j.jeurceramsoc.2020.08.067", "authors": [{"n": "Hyeon Woo Kim", "lab": false, "m": "†"}, {"n": "Hyunseok Ko", "lab": true, "m": ""}, {"n": "Yong-Chae Chung", "lab": false, "m": ""}, {"n": "Sung Beom Cho", "lab": false, "m": ""}], "fig": 1}, {"id": 14, "date": "2021-11-01", "year": 2021, "title": "Correlation between viscoelasticity of aluminosilicate melts and elastic properties of melt-spun fibers", "venue": "Journal of Non-Crystalline Solids", "jif": null, "q": null, "cites": 1, "role": "first", "pos": [1, 4], "doi": "https://doi.org/10.1016/j.jnoncrysol.2021.121110", "authors": [{"n": "Hyunseok Ko", "lab": true, "m": "†"}, {"n": "Myounguk Kim", "lab": false, "m": ""}, {"n": "Sun-Min Park", "lab": false, "m": ""}, {"n": "Hyung Mi Lim", "lab": false, "m": ""}], "fig": 1}, {"id": 13, "date": "2021-08-13", "year": 2021, "title": "Triboelectrification: backflow and stuck charges are key", "venue": "ACS Energy Letters", "jif": null, "q": null, "cites": null, "role": "first", "pos": [1, 5], "doi": "https://doi.org/10.1021/acsenergylett.1c01019", "authors": [{"n": "Hyunseok Ko", "lab": true, "m": "†"}, {"n": "Yeong-Won Lim", "lab": false, "m": "†"}, {"n": "Seungwu Han", "lab": false, "m": ""}, {"n": "Chang Kyu Jeong", "lab": false, "m": "*"}, {"n": "Sung Beom Cho", "lab": false, "m": "*"}], "sel": 1, "fig": 1}, {"id": 12, "date": "2020-06-01", "year": 2020, "title": "Development of novel refractory ceramic continuous fibers of fly ash and comparison of mechanical properties with those of E-glass fibers using the Weibull distribution", "venue": "Ceramics International", "jif": null, "q": null, "cites": 11, "role": "first", "pos": [2, 7], "doi": "https://doi.org/10.1016/j.ceramint.2020.02.102", "authors": [{"n": "Myounguk Kim", "lab": false, "m": "†"}, {"n": "Hyunseok Ko", "lab": true, "m": "†"}, {"n": "Taesang Kwon", "lab": false, "m": ""}, {"n": "Hwang-Cheol Bae", "lab": false, "m": ""}, {"n": "Cheol-Hoon Jang", "lab": false, "m": ""}, {"n": "Bi-Ung Heo", "lab": false, "m": ""}, {"n": "Sun-Min Park", "lab": false, "m": ""}], "fig": 1}, {"id": 11, "date": "2020-10-01", "year": 2020, "title": "Effects of additives in colloidal silica based inorganic-hybrid binder for mineral wool insulation boards", "venue": "Journal of Asian Ceramic Societies", "jif": null, "q": null, "cites": 8, "role": "first", "pos": [1, 3], "doi": "https://doi.org/10.1080/21870764.2020.1842118", "authors": [{"n": "Hyunseok Ko", "lab": true, "m": "†"}, {"n": "Hee-Seon Lee", "lab": false, "m": ""}, {"n": "Hyung Mi Lim", "lab": false, "m": ""}], "fig": 1}, {"id": 10, "date": "2020-01-31", "year": 2020, "title": "Physiochemical effects of SiC and ZrO2 particle fillers on the properties of enamel coatings", "venue": "Coatings", "jif": null, "q": null, "cites": 4, "role": "first", "pos": [1, 5], "doi": "https://doi.org/10.3390/coatings10020121", "authors": [{"n": "Hyunseok Ko", "lab": true, "m": "†"}, {"n": "Sung-Jin Lee", "lab": false, "m": ""}, {"n": "Jae-Jong Oh", "lab": false, "m": ""}, {"n": "Seungho Lee", "lab": false, "m": "*"}, {"n": "Hyung Mi Lim", "lab": false, "m": "†*"}], "fig": 1}, {"id": 9, "date": "2019-11-01", "year": 2019, "title": "Effects of chemical composition of Ca (OH) 2 and precursors on the properties of fast-curing geopolymers", "venue": "Korean Journal of Materials Research", "jif": null, "q": null, "cites": 3, "role": "first", "pos": [1, 3], "doi": "https://doi.org/10.3740/mrsk.2019.29.11.690", "authors": [{"n": "Hyunseok Ko", "lab": true, "m": "†"}, {"n": "Jungyoung Noh", "lab": false, "m": ""}, {"n": "Hyung Mi Lim", "lab": false, "m": ""}], "fig": 1}, {"id": 8, "date": "2019-06-15", "year": 2019, "title": "Development of High Performance Exterior Ceramic Fiber Insulator with Recycled Materials", "venue": "Magazine of RCR", "jif": null, "q": null, "cites": null, "role": "co-author", "pos": [4, 5], "doi": "https://koreascience.kr/article/JAKO201929565689155.page", "authors": [{"n": "Hun Song", "lab": false, "m": "†"}, {"n": "Hyung Mi Lim", "lab": false, "m": ""}, {"n": "Sun-Min Park", "lab": false, "m": ""}, {"n": "Hyunseok Ko", "lab": true, "m": ""}, {"n": "Han-Bom Kim", "lab": false, "m": ""}], "fig": 1}, {"id": 7, "date": "2019-08-01", "year": 2019, "title": "Synergistic effects of amine-modified ammonium polyphosphate on curing behaviors and flame retardation properties of epoxy composites", "venue": "Composites Part B: Engineering", "jif": null, "q": null, "cites": 105, "role": "co-author", "pos": [2, 3], "doi": "https://doi.org/10.1016/j.compositesb.2019.04.016", "authors": [{"n": "Myounguk  Kim", "lab": false, "m": "†"}, {"n": "Hyunseok Ko", "lab": true, "m": ""}, {"n": "Sun-Min Park", "lab": false, "m": ""}], "fig": 1}, {"id": 6, "date": "2017-09-14", "year": 2017, "title": "Cs diffusion in SiC high-energy grain boundaries", "venue": "Journal of Applied Physics", "jif": null, "q": null, "cites": 5, "role": "first", "pos": [1, 3], "doi": "https://doi.org/10.1063/1.4989389", "authors": [{"n": "Hyunseok Ko", "lab": true, "m": "†"}, {"n": "Izabela zlufarska", "lab": false, "m": ""}, {"n": "Dane Morgan", "lab": false, "m": ""}], "fig": 1}, {"id": 4, "date": "2017-08-01", "year": 2017, "title": "Optimization of self-interstitial clusters in 3C-SiC with genetic algorithm", "venue": "Journal of Nuclear Materials", "jif": null, "q": null, "cites": 17, "role": "first", "pos": [1, 4], "doi": "https://doi.org/10.1016/j.jnucmat.2017.05.015", "authors": [{"n": "Hyunseok Ko", "lab": true, "m": "†"}, {"n": "Amy Kaczmarowski", "lab": false, "m": ""}, {"n": "Izabela Szlufarska", "lab": false, "m": ""}, {"n": "Dane Morgan", "lab": false, "m": ""}], "fig": 1}, {"id": 3, "date": "2016-08-01", "year": 2016, "title": "Ag diffusion in SiC high-energy grain boundaries: Kinetic Monte Carlo study with first-principle calculations", "venue": "Computational Materials Science", "jif": null, "q": null, "cites": 32, "role": "first", "pos": [1, 4], "doi": "https://doi.org/10.1016/j.commatsci.2016.04.027", "authors": [{"n": "Hyunseok Ko", "lab": true, "m": "†"}, {"n": "Jie Deng", "lab": false, "m": ""}, {"n": "Izabela Szlufarska", "lab": false, "m": ""}, {"n": "Dane Morgan", "lab": false, "m": ""}], "fig": 1}, {"id": 2, "date": "2016-04-01", "year": 2016, "title": "Effect of carbon ion irradiation on Ag diffusion in SiC", "venue": "Journal of Nuclear Materials", "jif": null, "q": null, "cites": 19, "role": "first", "pos": [2, 9], "doi": "https://doi.org/10.1016/j.jnucmat.2015.11.017", "authors": [{"n": "Bin Leng", "lab": false, "m": "†"}, {"n": "Hyunseok Ko", "lab": true, "m": "†"}, {"n": "Tyler J. Gerczak", "lab": false, "m": ""}, {"n": "Jie Deng", "lab": false, "m": ""}, {"n": "Andrew J. Giordani", "lab": false, "m": ""}, {"n": "Jerry L. Hunter Jr", "lab": false, "m": ""}, {"n": "Dane Morgan", "lab": false, "m": ""}, {"n": "Izabela Szlufarska", "lab": false, "m": ""}, {"n": "Kumar Sridharan", "lab": false, "m": ""}], "fig": 1}, {"id": 64, "date": "2015-12-01", "year": 2015, "title": "Grain boundary diffusion of Ag through polycrystalline SiC in TRISO fuel particles", "venue": "Journal of Nuclear Materials", "jif": null, "q": null, "cites": 21, "role": "co-author", "pos": [2, 5], "doi": "https://doi.org/10.1016/j.jnucmat.2015.09.054", "authors": [{"n": "Jie Deng", "lab": false, "m": "†"}, {"n": "Hyunseok Ko", "lab": true, "m": ""}, {"n": "Paul Demkowicz", "lab": false, "m": ""}, {"n": "Dane Morgan", "lab": false, "m": ""}, {"n": "Izabela Szlufarska", "lab": false, "m": ""}], "fig": 1}]</script>
-<script src="assets/js/site.js?v=20261017e"></script>
+<script src="assets/js/site.js?v=20261017f"></script>
 </body>
 </html>

diff --git a/assets/js/site.js b/assets/js/site.js
@@ -134,7 +134,7 @@
       + ' · <b>Published</b> ' + p.date;
 
     return '<div class="entry">'
-      + '<div class="thumb">'+(p.fig ? '<img src="assets/img/pub/'+p.id+'.jpg?v=20261017e" alt="" loading="lazy">' : thumb(p.id))+'</div>'
+      + '<div class="thumb">'+(p.fig ? '<img src="assets/img/pub/'+p.id+'.jpg?v=20261017f" alt="" loading="lazy">' : thumb(p.id))+'</div>'
       + '<div>'
       +   '<div class="entry-title"><span class="pub-no">'+p.year+'-'+p.no+'</span>'+p.title+'</div>'
       +   '<div class="entry-authors">'+authors+'</div>'
